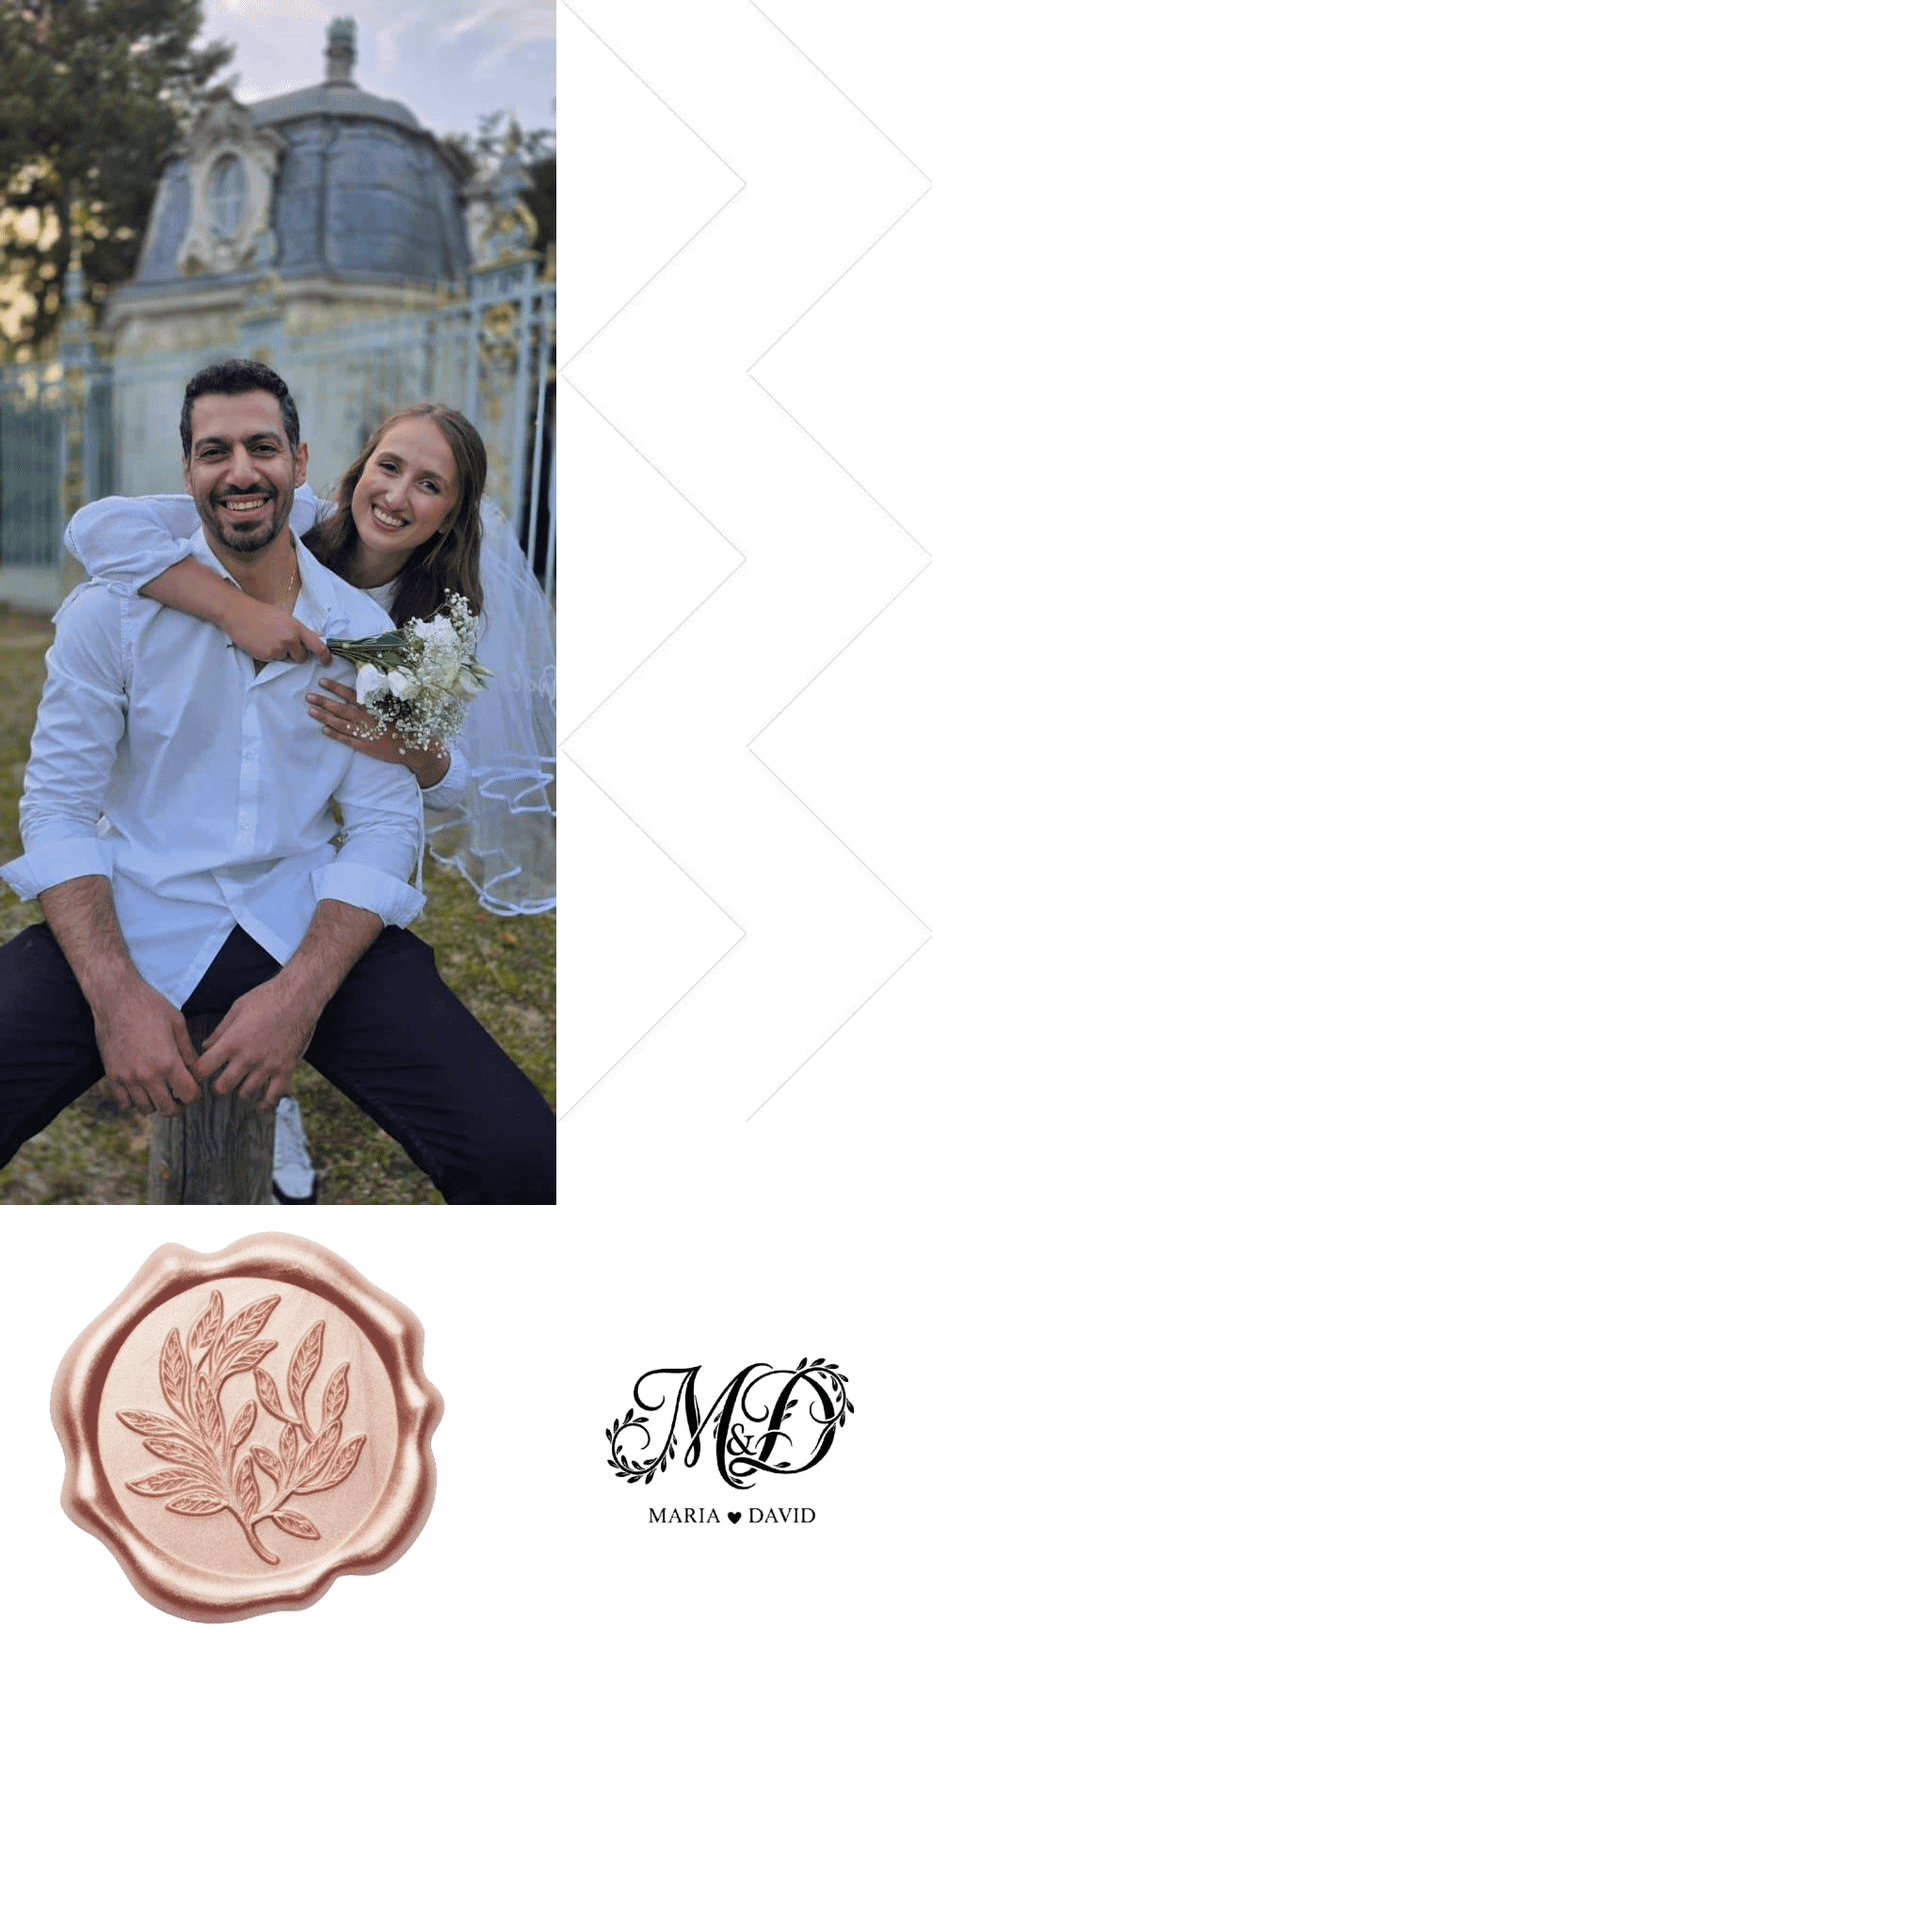
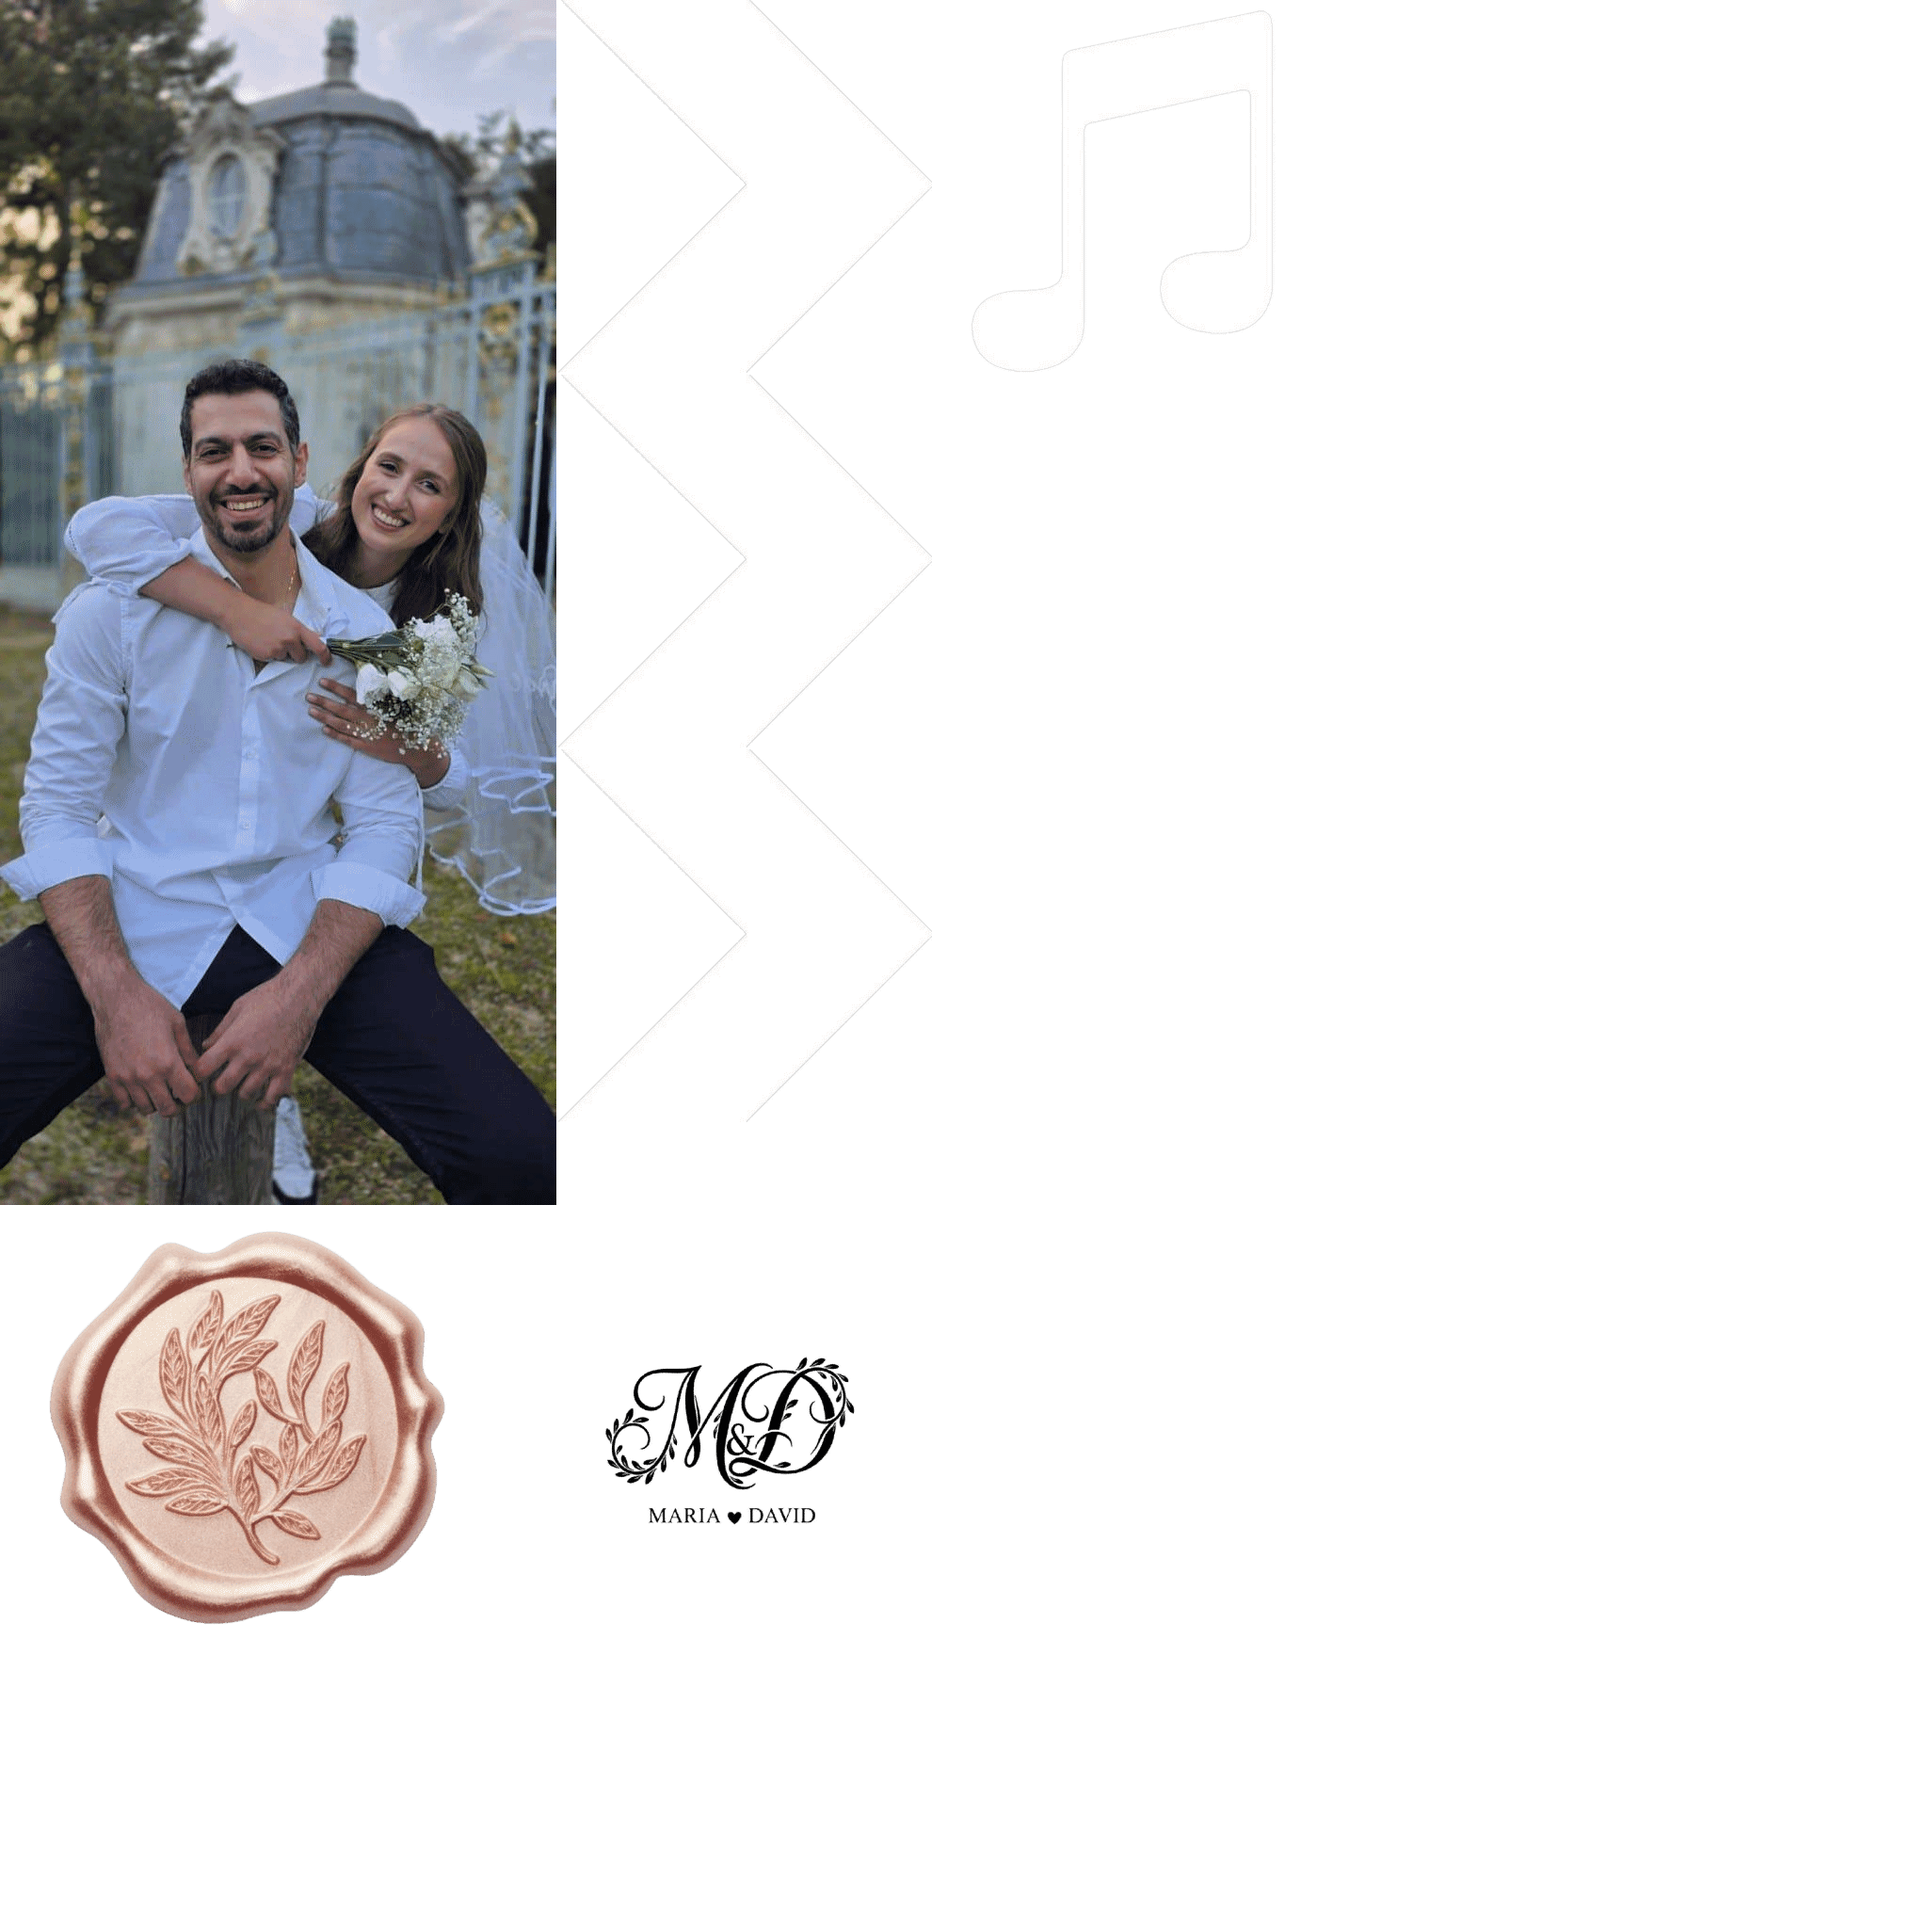
Fixed the animation error

diff --git a/index.js b/index.js
@@ -4,7 +4,7 @@ var p; // shortcut to reference prototypes
 var lib={};var ss={};var img={};
 lib.ssMetadata = [
 		{name:"index_atlas_P_1", frames: [[0,0,591,1280],[593,0,591,1280],[1186,0,591,1280]]},
-		{name:"index_atlas_P_2", frames: [[510,1282,535,466],[0,0,591,1280],[593,0,397,396],[593,398,397,396],[593,796,397,396],[0,1282,508,491]]},
+		{name:"index_atlas_P_2", frames: [[510,1282,535,466],[0,0,591,1280],[992,0,390,399],[593,0,397,396],[593,398,397,396],[593,796,397,396],[0,1282,508,491]]},
 		{name:"index_atlas_NP_1", frames: [[0,0,1920,1080]]},
 		{name:"index_atlas_NP_2", frames: [[0,0,1080,1920]]},
 		{name:"index_atlas_NP_3", frames: [[0,0,1080,1920]]},
@@ -74,30 +74,37 @@ lib.ssMetadata = [
 
 
 
-(lib.Screenshot_832026_143822_wwwbingcomremovebgpreview = function() {
+(lib.musicsymbol = function() {
 	this.initialize(ss["index_atlas_P_2"]);
 	this.gotoAndStop(2);
 }).prototype = p = new cjs.Sprite();
 
 
 
-(lib.Screenshot_832026_143822_wwwbingcomremovebgpreviewpngcopy = function() {
+(lib.Screenshot_832026_143822_wwwbingcomremovebgpreview = function() {
 	this.initialize(ss["index_atlas_P_2"]);
 	this.gotoAndStop(3);
 }).prototype = p = new cjs.Sprite();
 
 
 
-(lib.Screenshot_832026_143822_wwwbingcomremovebgpreviewpngcopy2 = function() {
+(lib.Screenshot_832026_143822_wwwbingcomremovebgpreviewpngcopy = function() {
 	this.initialize(ss["index_atlas_P_2"]);
 	this.gotoAndStop(4);
 }).prototype = p = new cjs.Sprite();
 
 
 
-(lib.sealremovebgpreview = function() {
+(lib.Screenshot_832026_143822_wwwbingcomremovebgpreviewpngcopy2 = function() {
 	this.initialize(ss["index_atlas_P_2"]);
 	this.gotoAndStop(5);
+}).prototype = p = new cjs.Sprite();
+
+
+
+(lib.sealremovebgpreview = function() {
+	this.initialize(ss["index_atlas_P_2"]);
+	this.gotoAndStop(6);
 }).prototype = p = new cjs.Sprite();
 
 
@@ -814,7 +821,7 @@ if (reversed == null) { reversed = false; }
 	this.instance.setTransform(130.85,0,0.3305,0.3305,90);
 
 	this.shape = new cjs.Shape();
-	this.shape.graphics.f("#3D1A39").s().p("EhV4AsPMAAAhYdMCrxAAAMAAABYdg");
+	this.shape.graphics.f("#3D1A39").s().p("EgVcAsPMAAAhYdMAq5AAAMAAABYdg");
 	this.shape.setTransform(63.85,55.5);
 
 	this.timeline.addTween(cjs.Tween.get({}).to({state:[{t:this.instance}]}).to({state:[{t:this.instance}]},1).to({state:[{t:this.instance}]},1).to({state:[{t:this.shape},{t:this.instance}]},1).wait(1));
@@ -822,7 +829,7 @@ if (reversed == null) { reversed = false; }
 	this._renderFirstFrame();
 
 }).prototype = p = new cjs.MovieClip();
-p.nominalBounds = new cjs.Rectangle(-485.8,-227.6,1099.4,566.2);
+p.nominalBounds = new cjs.Rectangle(-73.4,-227.6,274.6,566.2);
 
 
 (lib.click = function(mode,startPosition,loop,reversed) {
@@ -850,6 +857,33 @@ if (reversed == null) { reversed = false; }
 
 }).prototype = p = new cjs.MovieClip();
 p.nominalBounds = new cjs.Rectangle(-12.3,-9.8,97.6,97.5);
+
+
+(lib.btn_musique = function(mode,startPosition,loop,reversed) {
+if (loop == null) { loop = true; }
+if (reversed == null) { reversed = false; }
+	var props = new Object();
+	props.mode = mode;
+	props.startPosition = startPosition;
+	props.labels = {};
+	props.loop = loop;
+	props.reversed = reversed;
+	cjs.MovieClip.apply(this,[props]);
+
+	// Layer_1
+	this.instance = new lib.musicsymbol();
+	this.instance.setTransform(0,0,0.2429,0.2429);
+
+	this.shape = new cjs.Shape();
+	this.shape.graphics.f("#3D1A39").s().p("Ay8TnMAAAgnNMAl5AAAMAAAAnNg");
+	this.shape.setTransform(50.55,43.325);
+
+	this.timeline.addTween(cjs.Tween.get({}).to({state:[{t:this.instance}]}).to({state:[{t:this.instance}]},1).to({state:[{t:this.instance}]},1).to({state:[{t:this.shape},{t:this.instance}]},1).wait(1));
+
+	this._renderFirstFrame();
+
+}).prototype = p = new cjs.MovieClip();
+p.nominalBounds = new cjs.Rectangle(-70.7,-82.2,242.60000000000002,251.10000000000002);
 
 
 (lib.Symbol1 = function(mode,startPosition,loop,reversed) {
@@ -911,7 +945,7 @@ if (reversed == null) { reversed = false; }
 		*/
 		_this.play();
 		});
-		playSound("weddingmusicwav");
+		playSound("weddingmusicwav",1);
 	}
 	this.frame_139 = function() {
 		var _this = this;
@@ -935,14 +969,37 @@ if (reversed == null) { reversed = false; }
 		});
 	}
 	this.frame_384 = function() {
-		this.map1.on('click', function(){
-		    window.open('https://maps.app.goo.gl/HRsWW24z7HjhK8oEA?g_st=it', '_blank');
-		    this.stop();
-		}.bind(this));
+		var self = this;
+		self.stop();
 		
-		this.click2.on('click', function(){
-		    this.play();
-		}.bind(this));
+		// 1. Initialisation : On cache le bouton musique au départ
+		self.btn_musique.visible = false;
+		
+		// 2. Gestion du retour de Google Maps (Spécifique iPhone)
+		window.onfocus = function() {
+		    // Le bouton musique n'apparaît que si l'utilisateur revient sur la page
+		    self.btn_musique.visible = true;
+		};
+		
+		// 3. Action du bouton Map1
+		self.map1.on('click', function(){
+		    window.open('https://maps.app.goo.gl/HRsWW24z7HjhK8oEA?g_st=it', '_blank');
+		    self.stop(); 
+		});
+		
+		// 4. Action du bouton Musique (Réactivation par Timeline)
+		self.btn_musique.on('click', function() {
+		    // On revient d'une image en arrière et on rejoue pour forcer le son à se relancer
+		    self.gotoAndPlay(self.currentFrame - 1);
+		    
+		    // On recache le bouton après le clic
+		    self.btn_musique.visible = false; 
+		});
+		
+		// 5. Action du bouton Continuer (click2)
+		self.click2.on('click', function(){
+		    self.play();
+		});
 	}
 	this.frame_525 = function() {
 		// Action pour le bouton MAP 2 : Ouvre le lien ET arrête l'animation
@@ -1049,6 +1106,15 @@ if (reversed == null) { reversed = false; }
 	this.timeline.addTween(cjs.Tween.get({}).to({state:[]}).to({state:[{t:this.shape_3}]},525).to({state:[{t:this.instance_2}]},131).to({state:[{t:this.instance_3}]},9).to({state:[]},11).wait(494));
 	this.timeline.addTween(cjs.Tween.get(this.instance_2).wait(656).to({_off:false},0).to({_off:true,y:-761.4},9).wait(505));
 
+	// music_symbol
+	this.btn_musique = new lib.btn_musique();
+	this.btn_musique.name = "btn_musique";
+	this.btn_musique.setTransform(84.4,1826.9,1,1,0,0,0,47.4,48.5);
+	this.btn_musique._off = true;
+	new cjs.ButtonHelper(this.btn_musique, 0, 1, 2, false, new lib.btn_musique(), 3);
+
+	this.timeline.addTween(cjs.Tween.get(this.btn_musique).wait(384).to({_off:false},0).to({_off:true},131).wait(655));
+
 	// click2
 	this.click2 = new lib.click2();
 	this.click2.name = "click2";
@@ -1141,7 +1207,7 @@ if (reversed == null) { reversed = false; }
 	// click
 	this.click = new lib.click();
 	this.click.name = "click";
-	this.click.setTransform(596.8,1799.9,1,1,0,0,0,36.8,36.9);
+	this.click.setTransform(503.7,1799.9,1,1,0,0,0,36.8,36.9);
 	this.click._off = true;
 	new cjs.ButtonHelper(this.click, 0, 1, 2, false, new lib.click(), 3);
 
@@ -1159,7 +1225,7 @@ if (reversed == null) { reversed = false; }
 	this.instance_16 = new lib.Symbol9("synched",0);
 	this.instance_16.setTransform(1832,928,1,1,0,0,0,1832,992);
 
-	this.timeline.addTween(cjs.Tween.get(this.instance_16).to({x:1508.6},34).to({x:923.4},14).to({x:546.1},30).to({x:7.1},15).to({x:-431.8},31).to({x:-749.95},15).to({x:-749.65,y:-34.5},33).to({y:-997},8).to({_off:true},10).wait(980));
+	this.timeline.addTween(cjs.Tween.get(this.instance_16).to({x:1508.6},34).to({x:923.4},14).to({x:546.1},30).to({x:7.1},15).to({x:-431.8},31).to({regY:991.9,scaleX:1.2265,scaleY:1.2265,x:-1142.3,y:834.8},15).to({regX:1831.9,regY:992,scaleX:1.2414,scaleY:1.2414,x:-1160.25,y:-34.4},33).to({regX:1832,regY:991.9,scaleX:1.2235,scaleY:1.2235,x:-1134.6,y:-1228.05},8).to({_off:true},10).wait(980));
 
 	// evangile
 	this.shape_5 = new cjs.Shape();
@@ -1202,7 +1268,7 @@ if (reversed == null) { reversed = false; }
 	this._renderFirstFrame();
 
 }).prototype = p = new lib.AnMovieClip();
-p.nominalBounds = new cjs.Rectangle(-2108.1,-1029,5849.1,4965.2);
+p.nominalBounds = new cjs.Rectangle(-2894.3,-1481.6,6635.3,5417.799999999999);
 // library properties:
 lib.properties = {
 	id: '18A8C089EEF8E9489AA23F1CC6E97076',
@@ -1212,13 +1278,13 @@ lib.properties = {
 	color: "#F3F3F3",
 	opacity: 1.00,
 	manifest: [
-		{src:"images/index_atlas_P_1.png?1773080589669", id:"index_atlas_P_1"},
-		{src:"images/index_atlas_P_2.png?1773080589669", id:"index_atlas_P_2"},
-		{src:"images/index_atlas_NP_1.jpg?1773080589669", id:"index_atlas_NP_1"},
-		{src:"images/index_atlas_NP_2.jpg?1773080589669", id:"index_atlas_NP_2"},
-		{src:"images/index_atlas_NP_3.jpg?1773080589669", id:"index_atlas_NP_3"},
-		{src:"images/index_atlas_NP_4.jpg?1773080589669", id:"index_atlas_NP_4"},
-		{src:"sounds/weddingmusicwav.mp3?1773080589738", id:"weddingmusicwav"}
+		{src:"images/index_atlas_P_1.png?1773089221236", id:"index_atlas_P_1"},
+		{src:"images/index_atlas_P_2.png?1773089221236", id:"index_atlas_P_2"},
+		{src:"images/index_atlas_NP_1.jpg?1773089221236", id:"index_atlas_NP_1"},
+		{src:"images/index_atlas_NP_2.jpg?1773089221237", id:"index_atlas_NP_2"},
+		{src:"images/index_atlas_NP_3.jpg?1773089221237", id:"index_atlas_NP_3"},
+		{src:"images/index_atlas_NP_4.jpg?1773089221237", id:"index_atlas_NP_4"},
+		{src:"sounds/weddingmusicwav.mp3?1773089221317", id:"weddingmusicwav"}
 	],
 	preloads: []
 };

diff --git a/index.html b/index.html
@@ -22,7 +22,7 @@
   }
 </style>
 <script src="https://code.createjs.com/1.0.0/createjs.min.js"></script>
-<script src="index.js?1773080589860"></script>
+<script src="index.js?1773089221428"></script>
 <script>
 var canvas, stage, exportRoot, anim_container, dom_overlay_container, fnStartAnimation;
 function init() {
